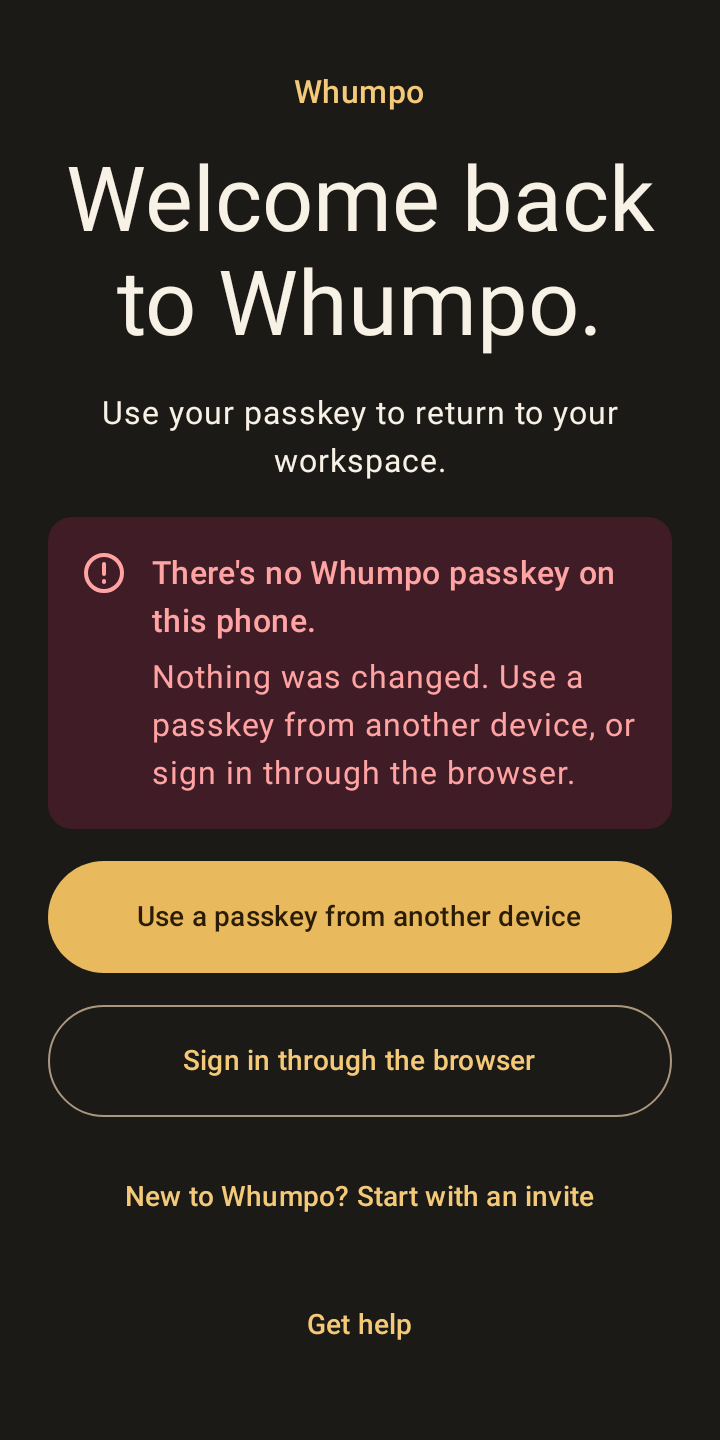
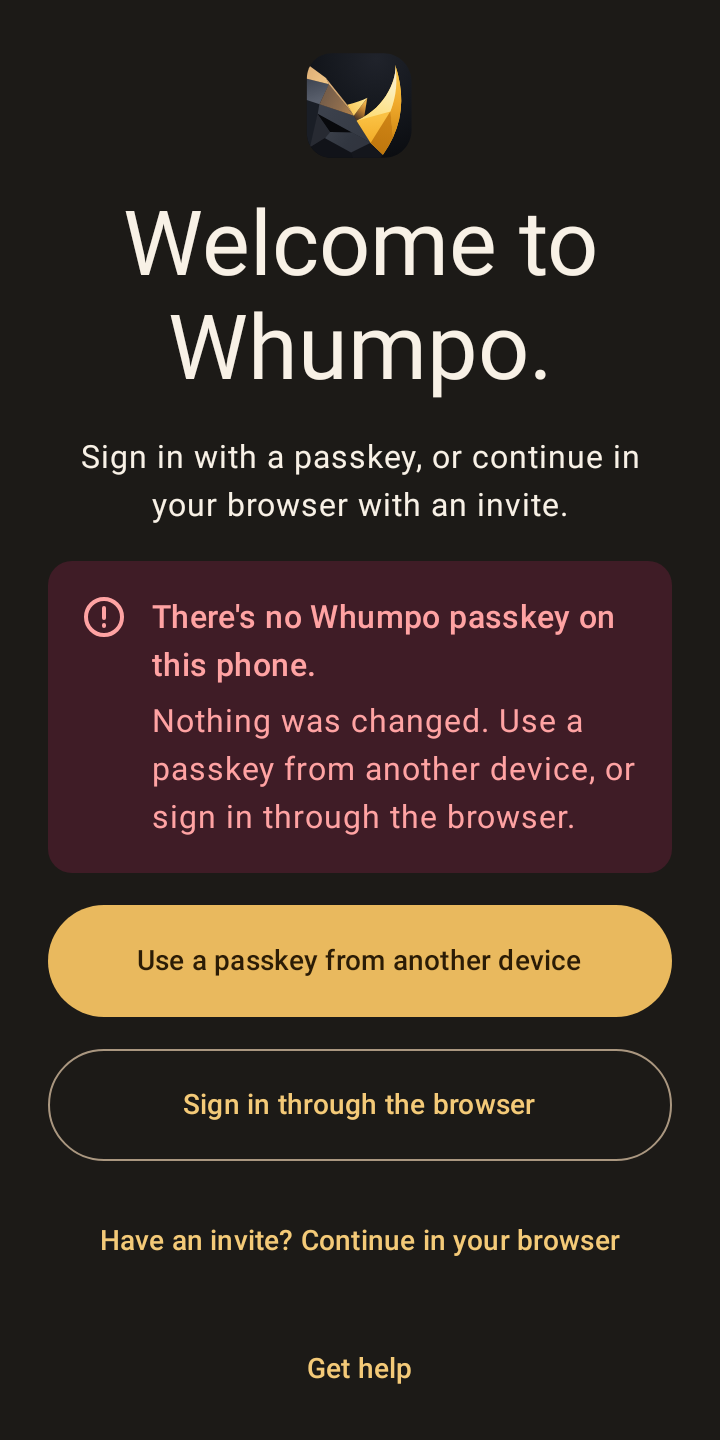
Improve Android welcome and invite retry UX

diff --git a/android/shared/src/commonMain/kotlin/com/whumpo/android/ui/auth/AuthScreens.kt b/android/shared/src/commonMain/kotlin/com/whumpo/android/ui/auth/AuthScreens.kt
@@ -15,6 +15,7 @@ import androidx.compose.foundation.layout.widthIn
 import androidx.compose.foundation.layout.windowInsetsPadding
 import androidx.compose.foundation.rememberScrollState
 import androidx.compose.foundation.verticalScroll
+import androidx.compose.foundation.Image
 import androidx.compose.material3.Card
 import androidx.compose.material3.CardDefaults
 import androidx.compose.material3.Icon
@@ -44,6 +45,9 @@ import com.whumpo.android.ui.theme.WhumpoSecondaryButton
 import com.whumpo.core.auth.AuthActions
 import com.whumpo.core.auth.AuthProblem
 import com.whumpo.core.auth.AuthState
+import com.whumpo.shared.resources.Res
+import com.whumpo.shared.resources.whumpo_horn_mark
+import org.jetbrains.compose.resources.painterResource
 
 private val Target = 56.dp
 private val QuietTarget = 48.dp
@@ -75,9 +79,13 @@ fun WelcomeScreen(state: AuthState.SignedOut, actions: AuthActions, modifier: Mo
     WhumpoEntryTheme(darkTheme = dark) {
         Surface(Modifier.fillMaxSize()) {
             AuthPage(modifier.testTag("auth-welcome")) {
-                Text("Whumpo", style = MaterialTheme.typography.titleMedium, color = MaterialTheme.colorScheme.primary)
-                Title("Welcome back to Whumpo.", display = true)
-                Body("Use your passkey to return to your workspace.")
+                Image(
+                    painter = painterResource(Res.drawable.whumpo_horn_mark),
+                    contentDescription = null,
+                    modifier = Modifier.size(56.dp).testTag("auth-brand-mark"),
+                )
+                Title("Welcome to Whumpo.", display = true)
+                Body("Sign in with a passkey, or continue in your browser with an invite.")
                 state.problem?.let { ProblemCard(it) }
                 WhumpoPrimaryButton(
                     onClick = actions::signInWithPasskey,
@@ -110,7 +118,7 @@ fun WelcomeScreen(state: AuthState.SignedOut, actions: AuthActions, modifier: Mo
                     onClick = actions::startInvite,
                     enabled = !state.busy,
                     modifier = Modifier.heightIn(min = QuietTarget).testTag("auth-invite"),
-                ) { Text("New to Whumpo? Start with an invite") }
+                ) { Text("Have an invite? Continue in your browser") }
                 WhumpoQuietButton(onClick = actions::openHelp, modifier = Modifier.heightIn(min = QuietTarget).testTag("auth-help")) {
                     Text("Get help")
                 }
@@ -243,6 +251,7 @@ internal fun problemCopy(problem: AuthProblem): Pair<String, String> = when (pro
     AuthProblem.HandoffFailed -> "The browser sign-in didn't finish." to "Nothing was changed. Start again."
     AuthProblem.NoBrowser -> "No browser could open." to "Nothing was changed. Install or enable a browser, then try again."
     AuthProblem.CredentialTooLarge -> "This passkey's response was too large to send." to "Nothing was changed. Try another passkey, or sign in through the browser."
+    AuthProblem.InviteStartFailed -> "We couldn't start your invite." to "Your account is unchanged. Try again to continue in your browser."
     AuthProblem.Generic -> "Something went wrong." to "Nothing was changed. Try again."
 }
 

diff --git a/android/shared/src/jvmCommonTest/kotlin/com/whumpo/core/auth/AuthControllerTest.kt b/android/shared/src/jvmCommonTest/kotlin/com/whumpo/core/auth/AuthControllerTest.kt
@@ -649,6 +649,67 @@ class AuthControllerTest {
     }
 
     @Test
+    fun aGenericInviteStartFailureOffersAnExplicitFreshRetry() = test {
+        overrides["/session/handoff/start"] = 500 to err("gateway_failure")
+        auth.startInvite()
+        await(AuthState.SignedOut(AuthProblem.InviteStartFailed))
+        assertTrue(browser.opened.isEmpty())
+
+        val firstStart = body("/session/handoff/start")
+        overrides.remove("/session/handoff/start")
+        auth.startInvite()
+        await(AuthState.WaitingForBrowser())
+
+        val starts = calls.filter { it.path == "/session/handoff/start" }
+        assertEquals(2, starts.size)
+        val retry = Json.parseToJsonElement(starts.last().body).jsonObject
+        assertEquals("signup", retry["purpose"]!!.jsonPrimitive.content)
+        assertFalse(firstStart["state"] == retry["state"])
+        assertFalse(firstStart["codeChallenge"] == retry["codeChallenge"])
+        assertEquals(listOf("https://whumpo.com$browserPath"), browser.opened.toList())
+    }
+
+    @Test
+    fun aGenericSigninHandoffFailureKeepsTheExistingCopy() = test {
+        overrides["/session/handoff/start"] = 500 to err("gateway_failure")
+        auth.signInWithBrowser()
+        await(AuthState.SignedOut(AuthProblem.Generic))
+        assertTrue(browser.opened.isEmpty())
+    }
+
+    @Test
+    fun inviteStartKeepsKnownNetworkAndAuthorityFailuresDistinct() = test {
+        overrides["/session/handoff/start"] = null
+        auth.startInvite()
+        await(AuthState.SignedOut(AuthProblem.Network))
+
+        overrides["/session/handoff/start"] = 429 to err("rate_limited", "\"retryAfterSeconds\":60")
+        auth.startInvite()
+        await(AuthState.SignedOut(AuthProblem.RateLimited))
+
+        overrides["/session/handoff/start"] = 503 to err("unavailable")
+        auth.startInvite()
+        await(AuthState.SignedOut(AuthProblem.ServiceUnavailable))
+
+        overrides["/session/handoff/start"] = 401 to err("proof_required", "\"proof\":\"signin\"")
+        auth.startInvite()
+        await(AuthState.SignedOut(AuthProblem.Rejected))
+
+        overrides["/session/handoff/start"] = 403 to err("identity_incomplete", "\"next\":\"browser\"")
+        auth.startInvite()
+        await(AuthState.FinishSetup(canOpen = true))
+
+        overrides["/session/handoff/start"] = 426 to err("client_update_required")
+        auth.startInvite()
+        await(AuthState.UpdateRequired)
+
+        overrides["/session/handoff/start"] = 409 to err("identity_changed")
+        auth.startInvite()
+        await(AuthState.SignedOut(AuthProblem.Generic))
+        assertTrue(browser.opened.isEmpty())
+    }
+
+    @Test
     fun aReturnWithTheWrongStateIsIgnoredAndTheHandoffKeepsWaiting() = test {
         auth.signInWithBrowser()
         await(AuthState.WaitingForBrowser())

diff --git a/android/shared/src/androidHostTest/kotlin/com/whumpo/android/ui/AuthScreensTest.kt b/android/shared/src/androidHostTest/kotlin/com/whumpo/android/ui/AuthScreensTest.kt
@@ -56,13 +56,38 @@ class AuthScreensTest : RobolectricUiTest() {
     fun welcomeHasOneHeadingOnePrimaryAndQuietLinks() {
         val actions = RecordingActions()
         show(AuthState.SignedOut(), actions).use {
-            compose.onNode(isHeading() and hasText("Welcome back to Whumpo.")).assertIsDisplayed()
+            compose.onNodeWithTag("auth-brand-mark").assertIsDisplayed()
+            compose.onNode(isHeading() and hasText("Welcome to Whumpo.")).assertIsDisplayed()
+            compose.onNode(hasText("Sign in with a passkey, or continue in your browser with an invite.")).assertIsDisplayed()
             compose.onNodeWithTag("auth-sign-in").assertHeightIsAtLeast(48.dp).assertIsEnabled().performClick()
             compose.onNodeWithTag("auth-invite").assertHeightIsAtLeast(48.dp).performClick()
             compose.onNodeWithTag("auth-help").assertHeightIsAtLeast(48.dp).performClick()
             absent("auth-problem"); absent("auth-browser"); absent("auth-preview")
         }
         assertEquals(listOf("passkey", "invite", "help"), actions.calls)
+    }
+
+    @Test
+    fun inviteStartFailureExplainsTheBrowserRetryAndKeepsTheActionAvailable() {
+        val actions = RecordingActions()
+        show(AuthState.SignedOut(AuthProblem.InviteStartFailed), actions).use {
+            compose.onNodeWithTag("auth-problem").assert(polite).assertIsDisplayed()
+            compose.onNode(hasText("We couldn't start your invite.")).assertIsDisplayed()
+            compose.onNode(hasText("Your account is unchanged. Try again to continue in your browser.")).assertIsDisplayed()
+            compose.onNodeWithTag("auth-invite").assertIsEnabled().performClick()
+        }
+        assertEquals(listOf("invite"), actions.calls)
+    }
+
+    @Test
+    fun inviteRetryRemainsReachableAtLargeText() {
+        val actions = RecordingActions()
+        show(AuthState.SignedOut(AuthProblem.InviteStartFailed), actions, font = 2f).use {
+            compose.onNodeWithTag("auth-problem").assertIsDisplayed()
+            compose.onNodeWithTag("auth-invite").performScrollTo().assertHeightIsAtLeast(48.dp).assertIsEnabled().performClick()
+            compose.onNodeWithTag("auth-help").performScrollTo().assertHeightIsAtLeast(48.dp).assertIsDisplayed()
+        }
+        assertEquals(listOf("invite"), actions.calls)
     }
 
     @Test

diff --git a/android/shared/src/jvmCommonMain/kotlin/com/whumpo/core/auth/AuthController.kt b/android/shared/src/jvmCommonMain/kotlin/com/whumpo/core/auth/AuthController.kt
@@ -198,13 +198,26 @@ class AuthController(
 
     override fun startInvite() = launchStep {
         step.value = Step.Busy
-        startHandoff("signup")
+        startHandoff("signup", genericProblem = AuthProblem.InviteStartFailed)
     }
 
-    private suspend fun startHandoff(purpose: String) {
+    private suspend fun startHandoff(purpose: String, genericProblem: AuthProblem? = null) {
         val verifier = Pkce.newVerifier()
         val state = Pkce.newState()
-        val response = api.handoffStart(HandoffStartRequest(purpose, state, Pkce.challenge(verifier), RETURN_URI))
+        val response = try {
+            api.handoffStart(HandoffStartRequest(purpose, state, Pkce.challenge(verifier), RETURN_URI))
+        } catch (e: CancellationException) {
+            throw e
+        } catch (e: MobileApiException) {
+            if (genericProblem == null || e.isDistinctHandoffProblem()) throw e
+            step.value = Step.Problem(genericProblem)
+            return
+        } catch (e: Exception) {
+            if (genericProblem == null) throw e
+            currentCoroutineContext().ensureActive()
+            step.value = Step.Problem(genericProblem)
+            return
+        }
         currentCoroutineContext().ensureActive()
         val url = browserUrl(response.browserPath)
         if (url == null) {
@@ -389,6 +402,20 @@ class AuthController(
         is MobileApiException.Unavailable -> AuthProblem.ServiceUnavailable
         is MobileApiException.ProofRequired -> AuthProblem.Rejected
         else -> AuthProblem.Generic
+    }
+
+    /** Keep contract statuses that carry authentication, update, network, or service authority intact. */
+    private fun MobileApiException.isDistinctHandoffProblem(): Boolean = when (this) {
+        is MobileApiException.ClientUpdateRequired,
+        is MobileApiException.IdentityIncomplete,
+        is MobileApiException.OnboardingRequired,
+        is MobileApiException.IdentityChanged,
+        is MobileApiException.ProofRequired,
+        is MobileApiException.Transport,
+        is MobileApiException.RateLimited,
+        is MobileApiException.Unavailable,
+        -> true
+        else -> false
     }
 
     private fun tooLarge(json: String) = json.toByteArray(Charsets.UTF_8).size > MAX_CREDENTIAL_BYTES

diff --git a/android/shared/src/androidHostTest/kotlin/com/whumpo/android/ui/AuthScreenshotTest.kt b/android/shared/src/androidHostTest/kotlin/com/whumpo/android/ui/AuthScreenshotTest.kt
@@ -25,6 +25,7 @@ class AuthScreenshotTest : RobolectricUiTest() {
         "auth-welcome-no-passkey" to { AuthFlow(AuthState.SignedOut(AuthProblem.NoPasskey), RecordingActions()) },
         "auth-welcome-network" to { AuthFlow(AuthState.SignedOut(AuthProblem.Network), RecordingActions()) },
         "auth-welcome-session-ended" to { AuthFlow(AuthState.SignedOut(AuthProblem.SessionEnded), RecordingActions()) },
+        "auth-welcome-invite-start-failed" to { AuthFlow(AuthState.SignedOut(AuthProblem.InviteStartFailed), RecordingActions()) },
         "auth-waiting" to { AuthFlow(AuthState.WaitingForBrowser(), RecordingActions()) },
         "auth-exchanging" to { AuthFlow(AuthState.WaitingForBrowser(exchanging = true), RecordingActions()) },
         "auth-finish-setup" to { AuthFlow(AuthState.FinishSetup(canCheck = true, canOpen = true), RecordingActions()) },
@@ -39,7 +40,7 @@ class AuthScreenshotTest : RobolectricUiTest() {
 
     @Test
     fun signInScreensAtLargeText() {
-        for ((name, scene) in scenes.filter { it.first in setOf("auth-welcome-no-passkey", "auth-finish-setup") }) {
+        for ((name, scene) in scenes.filter { it.first in setOf("auth-welcome-no-passkey", "auth-welcome-invite-start-failed", "auth-finish-setup") }) {
             capture(name, Screen.Compact, dark = false, fontScale = 2f, content = scene)
         }
     }

diff --git a/android/shared/src/commonMain/kotlin/com/whumpo/core/auth/AuthState.kt b/android/shared/src/commonMain/kotlin/com/whumpo/core/auth/AuthState.kt
@@ -23,6 +23,8 @@ enum class AuthProblem {
 
     /** Credential Manager's response is over the contract's 8 KiB limit; nothing was sent. */
     CredentialTooLarge,
+    /** A signup hand-off could not start; retrying starts a fresh browser hand-off. */
+    InviteStartFailed,
     Generic,
 }
 
